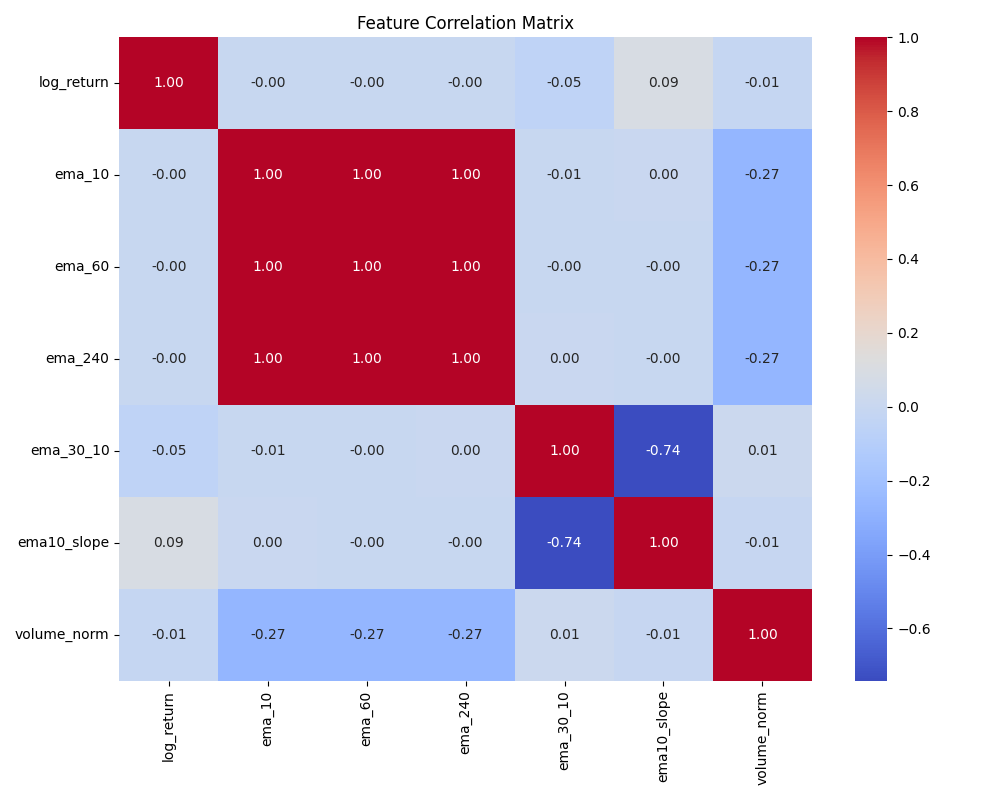
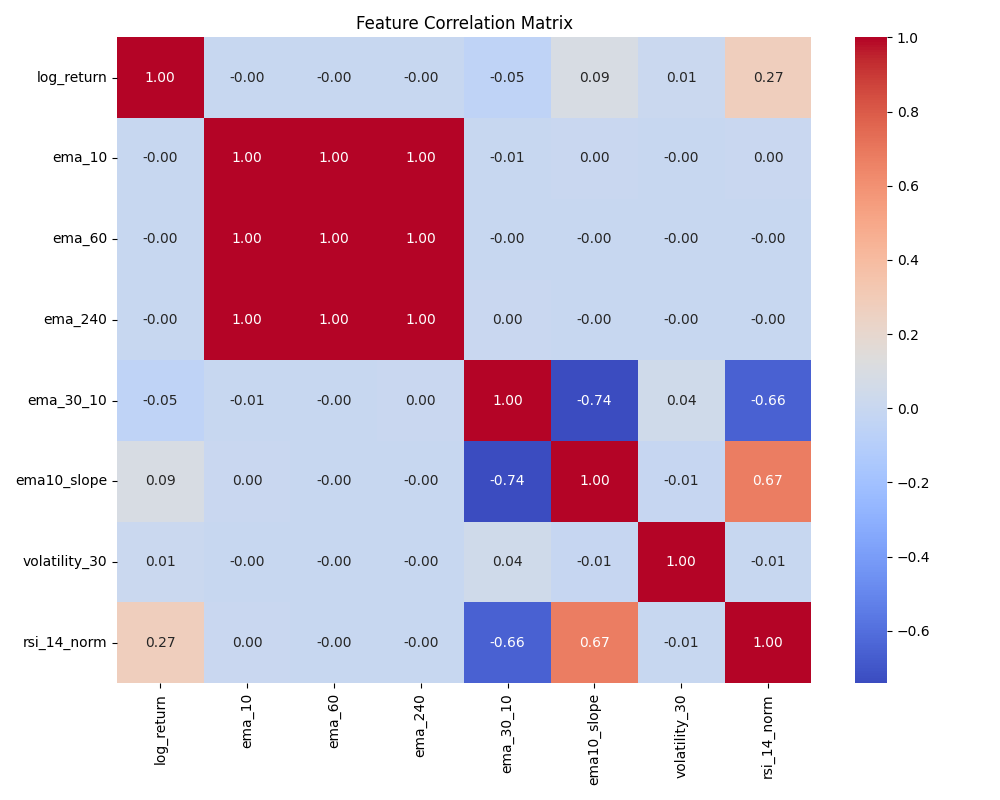
Data Preparation: 2 neue Features

diff --git a/experiments/GroupExp1/scripts/03_pre_split_prep/crypto_data_preparation.py b/experiments/GroupExp1/scripts/03_pre_split_prep/crypto_data_preparation.py
@@ -42,7 +42,7 @@ def add_ema_slope(df, window=5):
 # --- 6. Normalisierung ---
 def normalize(df):
     df["close_norm"] = (df["close"] - df["close"].mean()) / df["close"].std()
-  #  df["volume_norm"] = (df["volume"] - df["volume"].mean()) / df["volume"].std()
+    #  df["volume_norm"] = (df["volume"] - df["volume"].mean()) / df["volume"].std()
     return df
 
 
@@ -89,6 +89,44 @@ def compute_target_normalized(df, minutes):
     return df
 
 
+# --- 2 neue Features ---
+
+# --- NEU: Volatilität ---
+def add_volatility(df, window=30):
+    # Berechnet die Standardabweichung der Log-Returns über die letzten 'window' Minuten
+    # Das ist ein Maß für das Risiko / die Nervosität
+    df[f"volatility_{window}"] = df["log_return"].rolling(window=window).std()
+    return df
+
+
+# --- NEU: RSI (Relative Strength Index) ---
+def add_rsi(df, window=14):
+    delta = df["close"].diff()
+
+    # Gewinne und Verluste trennen
+    gain = (delta.where(delta > 0, 0))
+    loss = (-delta.where(delta < 0, 0))
+
+    # Geglätteter Durchschnitt (Wilder's Smoothing mit ewm)
+    avg_gain = gain.ewm(alpha=1 / window, min_periods=window).mean()
+    avg_loss = loss.ewm(alpha=1 / window, min_periods=window).mean()
+
+    # Relative Strength
+    rs = avg_gain / avg_loss.replace(0, 0.000001)  # Division durch 0 verhindern
+
+    # RSI Formel: 100 - (100 / (1 + RS))
+    df[f"rsi_{window}"] = 100 - (100 / (1 + rs))
+
+    # Normalisierung des RSI (damit er besser ins Netz passt)
+    # RSI ist normalerweise 0-100. Wir skalieren ihn auf 0-1 (durch 100 teilen)
+    df[f"rsi_{window}_norm"] = df[f"rsi_{window}"] / 100.0
+
+    # Lösche den rohen RSI, wir brauchen nur den normierten
+    df = df.drop(columns=[f"rsi_{window}"])
+
+    return df
+
+
 # --- 8. Data Preparation Pipeline ---
 for symbol_file in symbols:
     print(f"\n--- Data Preparation: {symbol_file} ---")
@@ -99,10 +137,12 @@ for symbol_file in symbols:
     # --- 8a: Feature Engineering ---
     df = (
         df.pipe(add_log_return)
-          .pipe(add_emas)
-          .pipe(add_ema_differences)
-          .pipe(add_ema_slope)
-          .pipe(normalize)
+        .pipe(add_emas)
+        .pipe(add_ema_differences)
+        .pipe(add_ema_slope)
+        .pipe(add_volatility, window=30)  # 1. neues Feature: Volatilität
+        .pipe(add_rsi, window=14)  # 2. neues Feature: RSI
+        .pipe(normalize)
     )
 
     # --- 8b: Targets generieren ---

diff --git a/experiments/GroupExp1/scripts/03_pre_split_prep/inspect_prep_data.py b/experiments/GroupExp1/scripts/03_pre_split_prep/inspect_prep_data.py
@@ -32,7 +32,9 @@ for t in target_cols:
 # Plot 1: Correlation Heatmap
 plt.figure(figsize=(10, 8))
 # Wir nehmen nur Features, keine Targets für die Korrelation
-feature_cols = ["log_return", "ema_10", "ema_60", "ema_240", "ema_30_10", "ema10_slope", "volume_norm"]
+feature_cols = ["log_return", "ema_10", "ema_60", "ema_240", "ema_30_10", "ema10_slope", "volatility_30", "rsi_14_norm",
+                #"volume_norm"
+                ]
 corr = df[feature_cols].corr()
 sns.heatmap(corr, annot=True, cmap="coolwarm", fmt=".2f")
 plt.title("Feature Correlation Matrix")

diff --git a/experiments/GroupExp1/GroupExp1.md b/experiments/GroupExp1/GroupExp1.md
@@ -98,7 +98,9 @@ Berechnet alle Features und Targets aus den Rohdaten, die später in das Modell 
 - EMAs (t = 5, 10, 15, 20, 30, 60, 120, 240 Minuten)
 - EMA-Differenzen (z. B. EMA30 – EMA10)
 - Slope von EMA
-- Normalisiertes Volumen
+- Rolling Volatility (t = 30 Minuten)
+- RSI (Relative Strength Index, t = 14 Minuten)
+
 
 **Targets** berechnet:
 - Binäre Labels für t = [5, 10, 15, 30, 60, 120, 240] Minuten
@@ -108,11 +110,15 @@ Berechnet alle Features und Targets aus den Rohdaten, die später in das Modell 
 
 **Warum diese Features?**
 
-Vergleichbarkeit: Absolute Preise (z.B. 20.000$ vs 60.000$) verwirren das Modell. Wir nutzen Log-Returns (prozentuale Änderungen), damit alle Datenpunkte vergleichbar bleiben.
+- Vergleichbarkeit: Absolute Preise (z.B. 20.000$ vs 60.000$) verwirren das Modell. Wir nutzen Log-Returns (prozentuale Änderungen), damit alle Datenpunkte vergleichbar bleiben.
 
-Rauschen filtern: Minuten-Charts sind sehr chaotisch. EMAs (gleitende Durchschnitte) glätten den Kurs, um den echten Trend sichtbar zu machen.
+- Rauschen filtern: Minuten-Charts sind sehr chaotisch. EMAs (gleitende Durchschnitte) glätten den Kurs, um den echten Trend sichtbar zu machen.
 
-Normalisierung: Wir skalieren alle Werte auf eine ähnliche Größe (Z-Score), damit das neuronale Netz schneller lernt.
+- Marktpsychologie (RSI): hilft dem Modell zu erkennen, ob der Markt "überkauft" oder "überverkauft" ist – wichtige Signale für Trendwenden.
+
+- Risiko (Volatilität): "Nervösität" des Marktes messen. Das Modell lernt so, zwischen ruhigen Phasen und explosiven Ausbrüchen zu unterscheiden.
+
+- Normalisierung: Wir skalieren alle Werte auf eine ähnliche Größe (Z-Score), damit das neuronale Netz schneller lernt.
 
 **Technische Umsetzung**
 
@@ -120,15 +126,18 @@ Speed: Statt 2,5 Millionen Zeilen einzeln zu berechnen (was Stunden dauert), nut
 
 **Ergebnisse der Datenanalyse (Findings)**
 
-Balance: Es gibt fast genau gleich viele "Up"- wie "Down"-Phasen (50/50 Verteilung). Das ist ideal, weil das Modell so nicht einseitig lernt.
+Balance: 
+- Es gibt fast genau gleich viele "Up"- wie "Down"-Phasen (50/50 Verteilung). Das ist ideal, weil das Modell so nicht einseitig lernt.
 
 ![class_balance.png](images/04_class_balance.png)
 
-Korrelation: 
-- Die verschiedenen EMAs (z.B. 10er und 15er) sind sich sehr ähnlich. Das zeigt uns, dass wir später vielleicht weniger Inputs brauchen.
-- Redundanz: Ein großer roter Block (Korrelation nahe 1.00) zeigt, dass der langfristige Preistrend die kurzfristigen Schwankungen dominiert. Die EMAs enthalten fast identische Informationen.
-- Konsequenz: Dem Modell werden redundante Daten gefüttert. Für zukünftige Experimente könnte die Anzahl der EMA-Features reduziert werden.
-- Gute Features: Im Kontrast dazu zeigen ema10_slope (Steigung) und ema_30_10 (Differenz) eine interessante negative Korrelation (-0.74). Sie fangen unterschiedliche Aspekte der Marktbewegung ein und ergänzen sich daher gut.
+Korrelation & Feature-Analyse:
+
+- Redundanz (Der rote Block): Die starke Korrelation (≈ 1.00) zwischen den verschiedenen EMAs (ema_10, ema_60, ema_240) bestätigt, dass absolute Preis-Indikatoren fast identische Informationen liefern. Der langfristige Trend dominiert hier.
+
+- Volatilität: Die Zeile volatility_30 zeigt nahezu keine Korrelation (0.00) zu den anderen Features. Dies beweist, dass die Volatilität eine statistisch unabhängige Information (Marktrisiko) liefert, die in den Trend-Daten nicht enthalten ist. Das ist ideal für das neuronale Netz.
+
+- Momentum-Bestätigung (RSI): Der rsi_14_norm zeigt eine sinnvolle Korrelation zum Slope (0.67), aber keine Korrelation zum absoluten Preis-Level (EMAs ≈ 0.00). Er fungiert als Bindeglied zwischen kurzfristigem Momentum und überkauften Zuständen.
 
 ![correlation_matrix.png](images/04_correlation_matrix.png)
 
